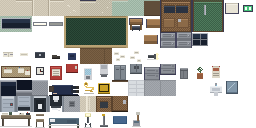
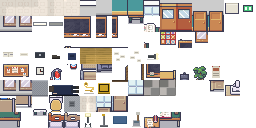
묵산 R16+R17 배포: LimeZu 타일셋 전면 교체 + 음소거 버튼

diff --git a/mooksan/play/js/render.js b/mooksan/play/js/render.js
@@ -138,8 +138,7 @@ function drawHall(){
     // 초소 (조력자 B의 살림살이 — D-18)
     const P=M.cur.post;
     if(P){
-      if(lx===P.cotL){ tile(A.PCOT[0], sx, 7*T); }
-      else if(lx===P.cotR){ tile(A.PCOT[1], sx, 7*T); }
+      if(lx===P.cotL){ tile(A.PCOT[0], sx, 6*T); tile(A.PCOT[1], sx, 7*T); }
       else if(lx===P.light){ tile(A.PLIGHT, sx, 7*T);
         cx.save(); cx.globalAlpha=0.10; cx.fillStyle='#f4ecc0';
         cx.fillRect(sx-14,R.f0*T,T*3,T*3); cx.restore(); }
@@ -243,6 +242,7 @@ function drawRoom(){
   cx.save(); cx.globalAlpha=0.8;
   txt(BD,TX(RM.cx),TY(RM.yBB)+5,'#dfe6da',8,'center'); cx.restore();
 
+  tile(A.TDLT,TX(RM.cx-1),TY(RM.f0-1)); tile(A.TDRT,TX(RM.cx),TY(RM.f0-1));
   tile(A.TDL,TX(RM.cx-1),TY(RM.f0)); tile(A.TDR,TX(RM.cx),TY(RM.f0));
   for(let i=0;i<4;i++){
     tile(i===0?A.LOCKT:A.LOCKB, TX(RM.x0), TY(RM.f0+1+i));
@@ -258,11 +258,10 @@ function drawRoom(){
       cx.save(); cx.globalAlpha=0.07; cx.fillStyle='#f0f4dc';
       cx.fillRect(TX(lx)-10,TY(ly)-8,T*2+20,T*3); cx.restore(); });
 
-  DESKS.forEach((p,i)=>{
+  DESKS.forEach(p=>{
+    tile(A.DESKT, TX(p[0]), TY(p[1]-1));
     tile(A.DESK, TX(p[0]), TY(p[1]));
-    if(S.room===1 && i===7) tile(A.PROP.book, TX(p[0]), TY(p[1])-2);
   });
-  if(S.room===3) tile(A.PROP.bag, TX(RM.x0+4), TY(RM.f0+2)-3);
 
   tile(A.DOOR[2], TX(RM.cx), TY(RM.yDoor)); tile(A.DOOR[3], TX(RM.cx+1), TY(RM.yDoor));
 

diff --git a/mooksan/play/index.html b/mooksan/play/index.html
@@ -23,10 +23,13 @@ button:hover{background:#d8d4cc;color:#0c0d0f;border-color:#d8d4cc}
 #over .dim{color:#7a746b;font-size:12px;line-height:1.95}
 #over .stat{display:block;margin-top:16px;font-size:11px;color:#5f5b54}
 .cr{position:fixed;bottom:6px;right:8px;z-index:50;font-size:9.5px;color:#3f3d39;letter-spacing:.02em}
+#mute{position:fixed;top:10px;right:10px;z-index:60;padding:5px 9px;font-size:15px;line-height:1;border:1px solid #3a3833;background:rgba(10,11,13,.55);color:#d8d4cc;cursor:pointer}
+#mute:hover{background:#1c1e22;color:#fff;border-color:#5a564e}
 </style>
 
 <div id="stage"><canvas id="cv" width="400" height="304"></canvas></div>
-<div class="cr">Character &amp; UI: Modern Exteriors / Modern UI © LimeZu</div>
+<button id="mute" title="소리 켜기·끄기 (M)">🔊</button>
+<div class="cr">Art: Modern Interiors / Modern Exteriors / Modern UI © LimeZu</div>
 
 <div id="title">
   <h1>묵 산</h1>
@@ -39,7 +42,7 @@ button:hover{background:#d8d4cc;color:#0c0d0f;border-color:#d8d4cc}
     <span style="color:#6f6a62;font-size:12px">
     1층 화장실은 복도 끝이라 밤에 가기 싫다.<br>
     누가 쓰고 불 안 껐나 보네.<br><br>
-    ↑↓←→ 이동　·　Space 조사　·　Shift 달리기</span>
+    ↑↓←→ 이동　·　Space 조사　·　Shift 달리기　·　M 음소거</span>
   </div>
   <button id="go">시 작</button>
 </div>

diff --git a/mooksan/play/js/main.js b/mooksan/play/js/main.js
@@ -2,7 +2,7 @@ import { G } from './ctx.js';
 import { S } from './state.js';
 import { loadAssets } from './assets.js';
 import { loadMap } from './maps.js';
-import { audioOn } from './audio.js';
+import { audioOn, setMuted, isMuted } from './audio.js';
 import { press, update, reset } from './world.js';
 import { render } from './render.js';
 import './harness.js';                  // window.__H — 하네스 계약 (B05)
@@ -19,6 +19,14 @@ addEventListener('keydown',e=>{ const k=KM[e.code]; if(!k)return; e.preventDefau
   if(e.repeat&&k!=='up'&&k!=='down'&&k!=='left'&&k!=='right')return;
   G.K[k]=1; if(DIRK[k]!==undefined) S.lastDir=DIRK[k]; press(k); });
 addEventListener('keyup',e=>{ const k=KM[e.code]; if(k)G.K[k]=0; });
+
+/* ══ 음소거 (오너 요청 — 형광등 험이 시끄럽다) ══ */
+const muteBtn=document.getElementById('mute');
+const syncMute=()=>{ muteBtn.textContent=isMuted()?'🔇':'🔊';
+  muteBtn.title=(isMuted()?'소리 켜기':'소리 끄기')+' (M)'; };
+muteBtn.onclick=()=>{ setMuted(!isMuted()); syncMute(); muteBtn.blur(); };
+addEventListener('keydown',e=>{ if(e.code==='KeyM'){ setMuted(!isMuted()); syncMute(); } });
+syncMute();
 
 /* ══ 루프 — 고정 타임스텝 (B03) ══
    렌더는 프레임률을 따르고, 논리는 항상 G.STEP 단위로만 전진한다.

diff --git a/mooksan/play/js/assets.js b/mooksan/play/js/assets.js
@@ -20,7 +20,7 @@ export const A={
   RFLOOR:[[5,3],[6,3]],
   HP:{ lock:{a:[9,4],b:[10,4]}, board_l:{a:[0,4]}, board_r:{a:[1,4]},
        clock:{a:[2,4]}, hyd:{a:[3,4],b:[4,4]}, cool:{a:[5,4],b:[6,4]},
-       clean:{a:[7,4],b:[8,4]}, bin:{b:[11,4]}, plant:{b:[12,4]}, poster:{a:[13,4]} },
+       clean:{a:[7,4],b:[8,4]}, bin:{b:[11,4]}, plant:{a:[12,7],b:[12,4]}, poster:{a:[13,4]} },
   // B07 — R002 반영 + 챕터 1 오브젝트
   HWIN2:[[0,5],[1,5]], SILLB:[2,5],
   CORPSE:[[3,5],[4,5]], KEY:[5,5], HBPLQ:[6,5], THRESH:[7,5],
@@ -29,6 +29,7 @@ export const A={
   STALL_T:[0,6], STALL_B:[1,6], STALLO_T:[2,6], STALLO_B:[3,6], DRAIN:[4,6], FSHEEN:[5,6],
   BDOOR2T:[6,6], BDOOR2B:[7,6],
   PDESK:[[0,7],[1,7]], PCHAIR:[2,7], PCOT:[[3,7],[4,7]], PLIGHT:[5,7], PBAR:[6,7],
+  DESKT:[9,7], TDLT:[10,7], TDRT:[11,7],   // v2 — 책상 상판 (LimeZu 2단 가구)
   SIGNLIB:[7,7], MOP:[8,7], PAPERS:[[7,3],[8,3]], FLASH:[9,3]
 };
 /* 복도 오브젝트 배치 — 단위(36타일) 안의 고정 위치. 어느 단위나 똑같다 */

diff --git a/mooksan/play/js/audio.js b/mooksan/play/js/audio.js
@@ -1,11 +1,17 @@
 import { G } from './ctx.js';
 
-let AC=null, humG=null;
+let AC=null, humG=null, muted=false;
+try{ muted = localStorage.getItem('mooksan_mute')==='1'; }catch(e){}
+export const isMuted=()=>muted;
+export function setMuted(m){ muted=!!m;
+  try{ localStorage.setItem('mooksan_mute', muted?'1':'0'); }catch(e){}
+  if(AC){ if(muted) AC.suspend(); else AC.resume(); } }
 export function audioOn(){ try{
   AC=new (window.AudioContext||window.webkitAudioContext)();
   const o=AC.createOscillator(), f=AC.createBiquadFilter(); humG=AC.createGain();
   o.type='sawtooth'; o.frequency.value=60; f.type='lowpass'; f.frequency.value=190;
   humG.gain.value=0.022; o.connect(f); f.connect(humG); humG.connect(AC.destination); o.start();
+  if(muted) AC.suspend();
 }catch(e){} }
 export function blip(fr,dur,vol,ty){ if(!AC)return;
   const o=AC.createOscillator(), g=AC.createGain();
